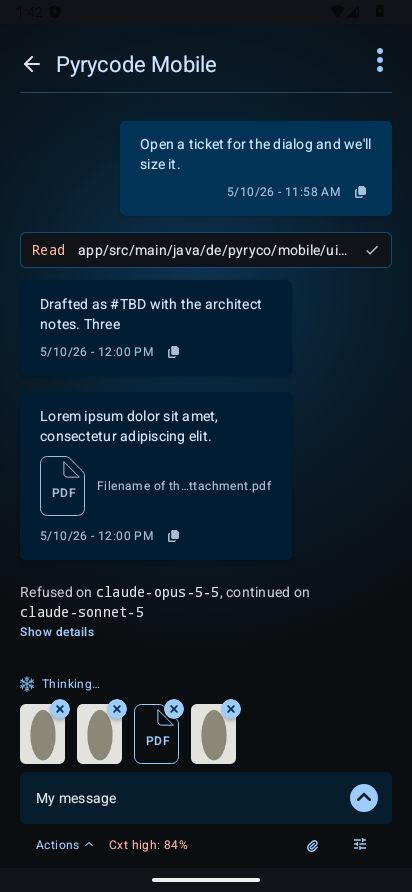
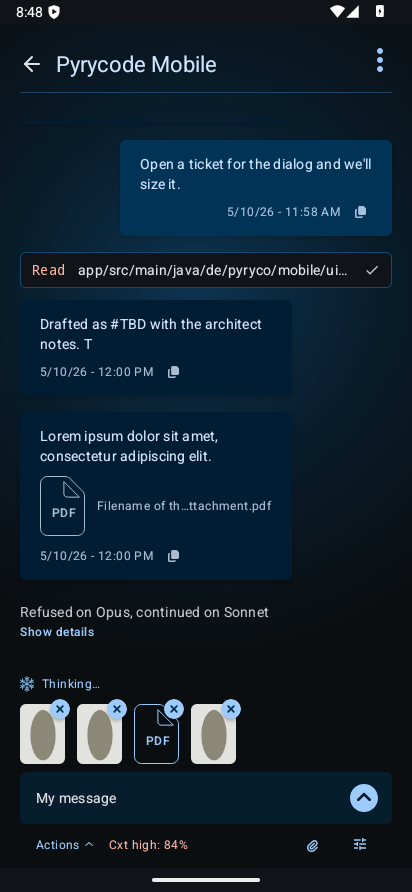
test(design): retake refusal captures with the model menu seeded (#1494)

diff --git a/app/src/androidTest/java/de/pyryco/mobile/design/ThreadDesignCaptureTest.kt b/app/src/androidTest/java/de/pyryco/mobile/design/ThreadDesignCaptureTest.kt
@@ -159,14 +159,16 @@ class ThreadDesignCaptureTest {
         await("A hook blocked this request.", substring = true)
         design.capture(FOLDER, "session-notice", "627:5466")
 
+        // #1494: the menu names both refusal models, so the row reads their menu labels as the frames draw them.
+        fake().setModelMenu(CONVERSATION, ModelMenu(MODELS.map { (name, id) -> menuRow(name, id) }, 0))
         val refusal = refusal()
         extraItems.value = listOf(pdfMessage(), refusal)
-        await("Show details")
+        await("Refused on Opus, continued on Sonnet")
         design.capture(FOLDER, "notification-text", "620:1577")
 
         fake().setSessionSettingsReading(CONVERSATION, settings("claude-sonnet-5"))
         runBlocking { refusals.emit(LiveRefusalEvent.Refused(refusal, "session")) }
-        await("Switch back to", substring = true)
+        await("Switch back to Opus")
         design.capture(FOLDER, "refusal-switch-back", "646:4707")
     }
 

diff --git a/app/src/androidTest/assets/design-1220/thread/index.md b/app/src/androidTest/assets/design-1220/thread/index.md
@@ -36,7 +36,7 @@ refusal offer, the photo file behind `retrieveAttachment` and one markdown note.
 shapes, not the frames' photo. Message text is partly the demo seed's, and timestamps follow the emulator's `en-US`
 locale ("5/10/26 - 12:00 PM" for the frames' "13.01.2026 - 13:55"). Neither is compared.
 
-**Routed defects.** #1494 refusal model names · #1496 inset sheets and the task panel's Close · #1497 Run
+**Routed defects.** #1494 refusal model names (fixed; `620:1577` and `646:4707` retaken) · #1496 inset sheets and the task panel's Close · #1497 Run
 configuration · #1498 workspace delimiter in the seed · #1499 Offline and usage-limit pills · #1485 compact footer ·
 #1512 delimiter rule inset · #1513 photo above text and photo bubble width · #1529 states with no frame (Gaps) ·
 #1532 PDF tile not dimmed while disconnected · #1533 reader list indent · #1534 task panel spacing · #1118 agent switch
@@ -114,48 +114,50 @@ verdicts apply to each of those frames, which list only what differs.
 
 ### Notification text — `620:1577`
 
-- **Owning ticket:** #875 (refusal row), #1290 (message attachment)
-- **Capture:** `notification-text.png` (412x892, 1.0)
+- **Owning ticket:** #875 (refusal row), #1290 (message attachment), #1494 (model names)
+- **Capture:** `notification-text.png` (412x892, 1.0), retaken for #1494 with the menu seeded
+  (`notice-1494-results.xml`, `threadNoticeFramesAt412By892`, 1 executed, 0 failures)
 - **Side-by-side:** `notification-text-side-by-side.png`
 - **Overlay:** `notification-text-overlay.png`
-- **Verdict:** mismatch
+- **Verdict:** match
 - Reference components: `figma-620-1576.png`, `figma-390-7145.png`.
 
 | Aspect | Verdict |
 |---|---|
-| Geometry | mismatch: the refusal title wraps to two lines where the frame's is one |
+| Geometry | match: "Refused on Opus, continued on Sonnet" on one line, as the frame |
 | Padding | match |
 | Spacing | match: Show details sits 4 px under the title |
-| Typography | mismatch: models are named by raw identifier in a monospace span ("`claude-opus-5-5`"); the frame uses display names in the body style ("Opus") |
+| Typography | match: the menu's labels "Opus" and "Sonnet" in the title's body style and colour (#1494). An identifier the menu does not know keeps its monospace span |
 | Colour | match |
 | Borders | match |
 | Radii | match |
 | Icon paths | match: document outline with folded corner and "PDF" |
 | Component state | match: collapsed refusal with Show details |
 
-- **Routed:** #1494
+- **Routed:** none
 
 ### Refusal switch back — `646:4707`
 
-- **Owning ticket:** #1360
-- **Capture:** `refusal-switch-back.png` (412x892, 1.0)
+- **Owning ticket:** #1360, #1494 (model names)
+- **Capture:** `refusal-switch-back.png` (412x892, 1.0), retaken for #1494 with the menu seeded
+  (`notice-1494-results.xml`, 1 executed, 0 failures)
 - **Side-by-side:** `refusal-switch-back-side-by-side.png`
 - **Overlay:** `refusal-switch-back-overlay.png`
-- **Verdict:** mismatch
+- **Verdict:** match
 
 | Aspect | Verdict |
 |---|---|
-| Geometry | mismatch: the two-line title pushes the button down one line; the button is wider for the identifier |
+| Geometry | match: one-line title; the button is about 150 px wide, as the frame's |
 | Padding | match: 16 px button side padding |
 | Spacing | match: 12 px from Show details to the button |
-| Typography | mismatch: "Switch back to `claude-opus-5-5`" with a monospace identifier, frame "Switch back to Opus" |
+| Typography | match: "Switch back to Opus" in the button's style, the menu label its own span (#1494) |
 | Colour | match: outlined primary button |
 | Borders | match: 1 px outline |
 | Radii | match |
 | Icon paths | match (none) |
 | Component state | match: offer armed, not pending |
 
-- **Routed:** #1494
+- **Routed:** none
 
 ### Session notice — `627:5466`
 
